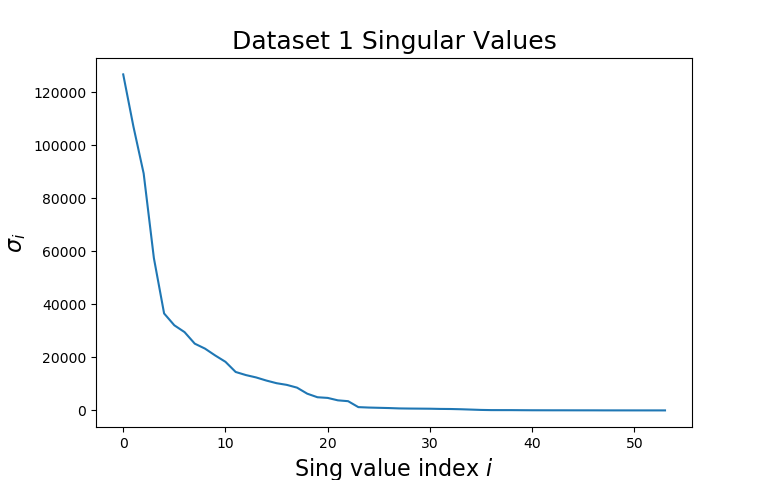
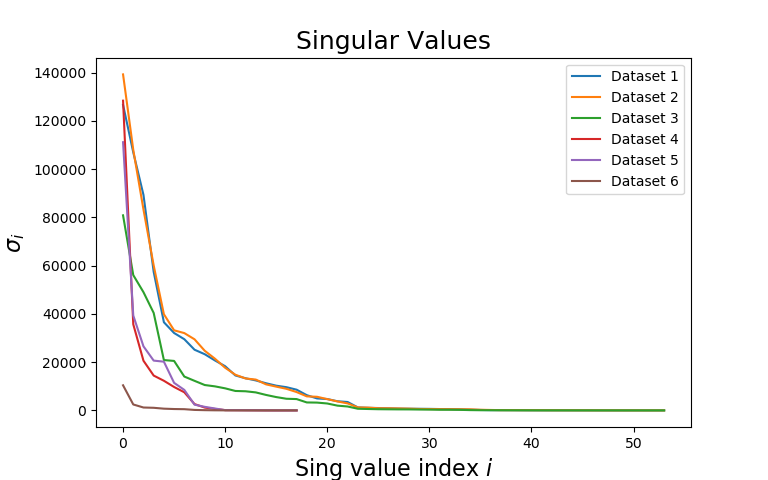
Plots now show all datasets

diff --git a/src/PCA.py b/src/PCA.py
@@ -8,35 +8,45 @@ from Dataset import Dataset
 import numpy as np
 import matplotlib.pyplot as plt
 
-# Initialize a dataset
-num_dataset = 1
-data = Dataset(num_dataset) # Test dataset 1
 
-# Remove mean from data
-#print(data.X.shape)
-#print(np.mean(data.X,0).shape)
-X_m = data.X - np.mean(data.X,0)
+fig_log = plt.figure()
+ax_log = fig_log.add_subplot(111)
+fig_lin = plt.figure()
+ax_lin = fig_lin.add_subplot(111)
 
-# Find skinny SVD of data matrix
-U, s, VT = np.linalg.svd(X_m,full_matrices=False)
+# Initialize the datasets
+for i in range(1,7): # Six datasets
+    num_dataset = i
+    data = Dataset(num_dataset) # Test dataset 1
 
-# Since data is in the rows, PCA is v_1
-print("PC of data: \n{}".format(VT.T[:,0].round(2)))
+    # Remove mean from data
+    #print(data.X.shape)
+    #print(np.mean(data.X,0).shape)
+    X_m = data.X - np.mean(data.X,0)
 
-# Plot singular values vs features
-fig = plt.figure()
-ax = fig.add_subplot(111)
-ax.plot(np.log10(s))
-ax.set_xlabel('Sing value index $i$', fontsize=16)
-ax.set_ylabel('$\log_{10}(\sigma_i)$', fontsize=16)
-ax.set_title('Dataset {} Singular Values'.format(num_dataset), fontsize=18)
+    # Find skinny SVD of data matrix
+    U, s, VT = np.linalg.svd(X_m,full_matrices=False)
 
-fig2 = plt.figure()
-ax2 = fig2.add_subplot(111)
-ax2.plot(s)
-ax2.set_xlabel('Sing value index $i$', fontsize=16)
-ax2.set_ylabel('$\sigma_i$', fontsize=16)
-ax2.set_title('Dataset {} Singular Values'.format(num_dataset), fontsize=18)
+    # Since data is in the rows, PCA is v_1
+    print("PC of dataset {}: \n{}".format(i,VT.T[:,0].round(2)))
+
+    # Plot singular values vs features
+    ax_log.plot(np.log10(s))
+    ax_lin.plot(s)
+
+
+
+ax_lin.set_xlabel('Sing value index $i$', fontsize=16)
+ax_lin.set_ylabel('$\sigma_i$', fontsize=16)
+ax_lin.set_title('Singular Values', fontsize=18)
+ax_lin.legend(['Dataset 1','Dataset 2','Dataset 3','Dataset 4', 'Dataset 5', 'Dataset 6'])
+
+ax_log.set_xlabel('Sing value index $i$', fontsize=16)
+ax_log.set_ylabel('$\log_{10}(\sigma_i)$', fontsize=16)
+ax_log.set_title('Singular Values', fontsize=18)
+ax_log.legend(['Dataset 1','Dataset 2','Dataset 3','Dataset 4', 'Dataset 5', 'Dataset 6'])
+
 plt.show()
+
 
 

diff --git a/src/LeastSquares.py b/src/LeastSquares.py
@@ -27,7 +27,7 @@ def trainLSOrig(X, y):
     return w
 
 
-## Initialize a dataset
+# Initialize a dataset
 num_dataset = 1
 data = Dataset(num_dataset) # Test dataset 1
 
@@ -41,5 +41,13 @@ perr = get_perr(y_hat, data.y) # Get percent error
 # Output results
 print("Using original Least Squares")
 print("Percent labels misclassified: {}%".format(perr.round(2)))
+
+
+""" Low rank approximation and time complexity study """
+# Find skinny SVD of training data
+U, s, VT = np.linalg.svd(data.X_tr, full_matrices=False)
+
+# Find rank-20 approximation to data
+
 
 
